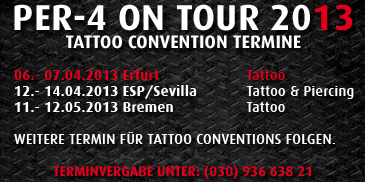
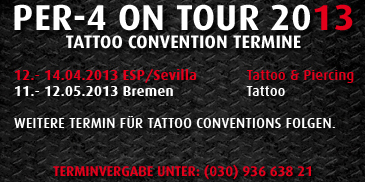
new welcome picture

diff --git a/webshop/WebShop/templates/pages/welcome.html b/webshop/WebShop/templates/pages/welcome.html
@@ -85,7 +85,7 @@
                 </div>
                 <div class="welcome-panel single last">
                     <div class="panel-inner">
-                        <img src="{{ STATIC_URL }}welcome/per4-tourdaten.jpg?20130404" alt="Per-4 Tattoo Conventions 2013, Zwickau, Dresden, Leipzig, Gera, Frankfurt a. M., Erfurt, Bremen"/><div class="image-footer-link">
+                        <img src="{{ STATIC_URL }}welcome/per4-tourdaten.jpg?20130410" alt="Per-4 Tattoo Conventions 2013, Zwickau, Dresden, Leipzig, Gera, Frankfurt a. M., Erfurt, Bremen"/><div class="image-footer-link">
                             <div class="text">PER-4 On Tour 2013. Tatto Convention Termine: Zwickau, Dresden, Leipzig, Gera, Frankfurt a. M., Erfurt, Bremen...</div>
                             <a href="http://www.per-4.com/main" class="btn">ZUM SHOP >></a>
                         </div>
